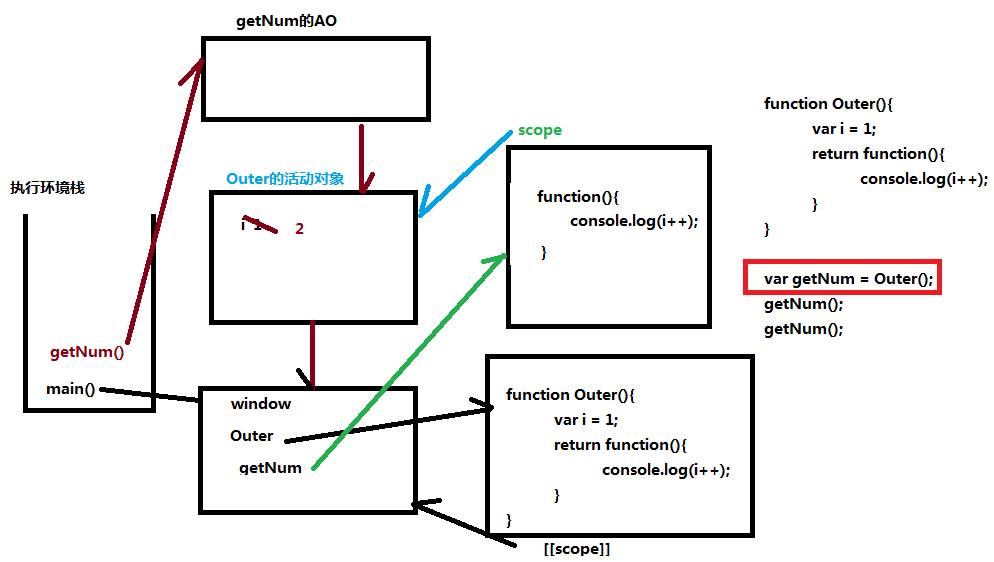
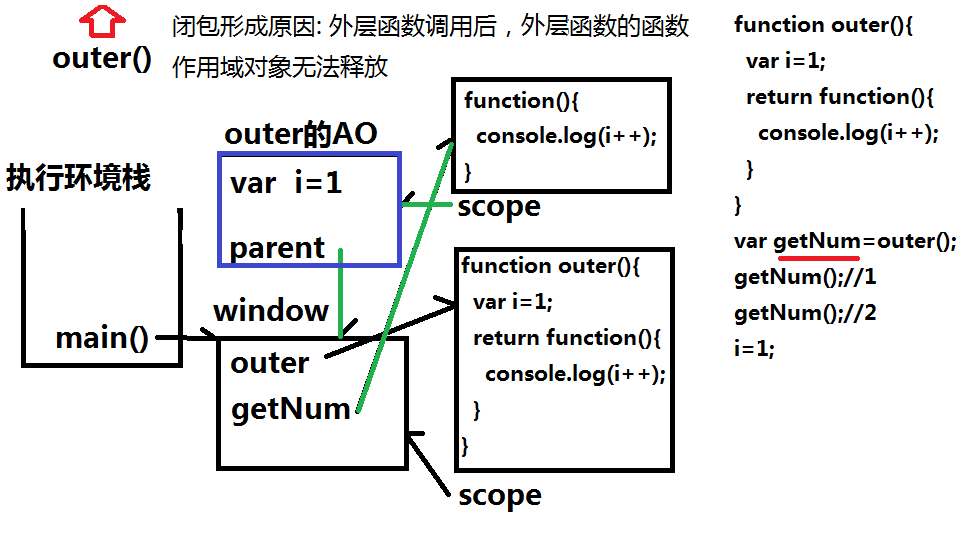
add closure

Changed region(s): [[0.0, 0.0, 0.9917, 1.0], [0.7748, 0.0892, 1.0, 0.3569], [0.7438, 0.0297, 0.9607, 0.0595]]

diff --git a/resource/面向对象.html b/resource/面向对象.html
@@ -1,9 +1,78 @@
 <h2>面向对象--OOP</h2>
 <ul class="menu">
 	<li>
-		<p>面向对象</p>
+		<p>理清JS中的类型关系</p>
 		<div class="desc">
-			<h2>面向对象</h2>
+			<h2>理清JS中的类型关系</h2>
+			<table>
+				<tr>
+					<td rowspan="15">JS六种主要类型</td>
+					<td rowspan="5" >简单基本类型，非对象</td>
+					<td>string</td>
+					<td colspan="2">typeof "str"//string</td>
+				</tr>
+				<tr>
+					<td>number</td>
+					<td colspan="2">typeof 1//number</td>
+					
+				</tr>
+				<tr>
+					<td>boolean</td>
+					<td colspan="2">typeof true//boolean</td>
+				</tr>
+				<tr>
+					<td>null</td>
+					<td colspan="2">typeof null//object<p>注:js中的bug，null本身不是对象</p></td>
+				</tr>
+				<tr>
+					<td>undefined</td>
+					<td colspan="2">typeof undefined//undefined</td>
+				</tr>
+				<tr>
+					<td rowspan="10">复杂基本类型，对象</td>
+					<td rowspan="10">object</td>
+					<td>String</td>
+					<td></td>
+				</tr>
+				<tr>
+					<td>Number</td>
+					<td></td>
+				</tr>
+				<tr>
+					<td>Boolean</td>
+					<td></td>
+				</tr>
+				<tr>
+					<td>Object</td>
+					<td></td>
+				</tr>
+				<tr>
+					<td>Function</td>
+					<td>可调用的对象</td>
+				</tr>
+				<tr>
+					<td>Array</td>
+					<td></td>
+				</tr>
+				<tr>
+					<td>Date</td>
+					<td></td>
+				</tr>
+				<tr>
+					<td>RegExp</td>
+					<td></td>
+				</tr>
+				<tr>
+					<td>Error</td>
+					<td></td>
+				</tr>
+			</table>
+		</div>
+	</li>
+	<li>
+		<p>创建对象</p>
+		<div class="desc">
+			<h2>对象</h2>
 			<h3>面向对象的3大特性</h3>
 			<p>封装：将某事物的属性和功能集中存放在一起，便于管理。</p>
 			<p>继承</p>
@@ -19,8 +88,8 @@
 }
 lilei.sayName();
 </pre>
-			<h4>用new创建</h4>
-			<pre class="code">var lilei = new Object();
+			<h4 class="unimportant">“构造形式”(很少使用)</h4>
+			<pre class="code unimportant">var lilei = new Object();
 obj.name = "Li Lei";
 obj.age = "15";
 obj.sayName = function(){
@@ -37,8 +106,8 @@ for(var key in lilei){
 		console.log(key+":"+lilei[key]);
 	}
 }</pre>
-			<h4>用构造函数</h4>
-			<p>反复创建多个相同结构的对象时，存在大量重复代码，不便于维护。构造函数类似于模板，描述同一类型所有对象同一结构的函数。</p>
+			<h4>构造函数形式</h4>
+			<p>反复创建多个相同结构的对象时，存在大量重复代码，不便于维护。<em>构造函数(constructor)</em>类似于模板，描述同一类型所有对象同一结构的函数。</p>
 			<pre class="code">//定义构造函数
 function Person(name,age){
 	this.name = name;
@@ -54,11 +123,11 @@ lilei.sayName();
 hmm.sayName();
 console.dir(lilei);
 </pre>
-			<h5>构造函数的机制--执行new时，发生了什么？</h5>
-			<p>1) 创建新的空对象</p>
-			<p>2) 设置新对象继承构造函数的原型对象</p>
-			<p>3) 调用构造函数，并将构造函数中的this指向正在创建的新对象。this.name=name;意味着给新对象强行添加属性并赋值为活动对象中的name值。</p>
-			<p>4) 返回新对象的地址</p>
+			<h5 class="unimportant">构造函数的机制--执行new时，发生了什么？</h5>
+			<p class="unimportant">1) 创建新的空对象</p>
+			<p class="unimportant">2) 设置新对象继承构造函数的原型对象</p>
+			<p class="unimportant">3) 调用构造函数，并将构造函数中的this指向正在创建的新对象。this.name=name;意味着给新对象强行添加属性并赋值为活动对象中的name值。</p>
+			<p class="unimportant">4) 返回新对象的地址</p>
 			<div class="img"><img src="images/constructor.png" alt=""></div>
 			<h3>访问对象的属性和方法</h3>
 			<p>访问对象的属性需要在属性前面加上对象名，如<span class="code">lilei.name</span>,如果只是<span class="code">name</span>则表示一个变量，而<strong>变量只能在作用域链中查找</strong>。</p>
@@ -66,13 +135,86 @@ console.dir(lilei);
 		</div>
 	</li>
 	<li>
-		<p>原型和原型链</p>
+		<p>原型和继承</p>
 		<div class="desc">
-			<h2>原型(prototype)</h2>
+			<h2>原型和继承</h2>
+			<h3>原型对象</h3>
+			<p>所有构造函数的实例都有一个属性<em>__proto__</em>指向构造函数的<em>prototype</em>。实例对象所共有的方法应该放在<em>prototype</em>中，这样每次创建实例对象时，不需要重复创建，共用一份即可。</p>
+			<h3>构造函数还是原型对象？</h3>
+			<p>对象的成员应该放在构造函数中还是原型对象中呢？</p>
+			<p><strong>看成员是共性还是个性的。个性的成员放在构造函数中，共性的成员放在原型对象中。</strong></p>
+			<p>例如name、age，因为以后创建的对象name和age不尽相同，所以他们是个性的，因此放在构造函数中；而<span class="code">intr()</span>方法，每个实例都介绍自己name和age，因此是共性的，故而应放在prototype中。</p>
+			
+			<table>
+				<tr>
+					<td>私有属性</td>
+					<td><p>保存在子对象的本地，属子对象独有，只能用子对象修改。</p></td>
+				</tr>
+				<tr>
+					<td>公有属性</td>
+					<td><p>保存在父对象中，所有子对象共有，只能用原型对象修改。</p></td>
+				</tr>
+			</table>
+			<h3>原型的应用</h3>
+			<h4>新API兼容旧的浏览器</h4>
+			<pre class="code">//让IE8兼容ES5新增的indexOf()
+if(typeof Array.prototype.indexOf != "function"){
+	Array.prototype.indexOf = function(target,start){
+		start = start || 0;
+		for(var i = start;i < this.length;i++){
+			if(this[i]===target) return i;
+		}
+		return -1;
+	}
+}
+</pre>
+		<p><strong>开发时：去MDN官网搜索indexOf()，最下面Polyfill就是兼容方案，复制过来使用</strong></p>
+		<pre class="code">if(typeof String.prototype.trim !== "function"){
+	String.prototype.trim = function(){
+		return this.replace(/^\s+|\s+$/g,"");
+	}
+}</pre>
+			<h3>笔试题</h3>
+			<h4>判断一个对象是否为数组有几种方法？</h4>
+			<pre class="code">var obj1={},obj2=[],obj3=new Date(),obj4={};
+obj4.__proto__=obj2;</pre>
+			<p>判断方法：</p>
+			<table>
+				<tr>
+					<td>判断原型对象</td><td><p>Array.prototype.isPrototypeOf(obj)</p></td><td>检查原型链</td>
+				</tr>
+				<tr>
+					<td>判断构造函数</td>
+					<td>
+						<p>obj instanceof Array</p>
+						<p>obj.constructor === Array</p>
+					</td>
+					<td>检查原型链</td>
+				</tr>
+				<tr>
+					<td>判断内部属性class</td>
+					<td><p>Object.prototype.toString.call(obj)==="[object Array]";</p></td>
+					<td></td>
+				</tr>
+			</table>
+			<p>注：class属性在对象创建的时候就已经确定，不随继承关系的改变而改变</p>
+			<p>class属性是内部隐藏的属性，不能随便访问。若要访问，需要使用<span class="code">Object.prototype.toString.call(obj)==="[object Array]";</span></p>
 		</div>
 	</li>
 	<li>
-		<p>继承</p>
-		<div class="desc"></div>
+		<p>继承和多态</p>
+		<div class="desc">
+			<h2>继承</h2>
+			<h3>继承的实现</h3>
+			<h4>通过原型继承</h4>
+			<h3>重写方法(override)</h3>
+			<p>父对象的方法不适合子对象，子对象可以重写同名的函数，该函数会覆盖父对象中的同名函数。</p>
+			<p>如果要用子对象调用父对象中被覆盖的函数，需要使用函数call()</p>
+			<pre class="code">var arr = [1,2,3];
+arr.toString();//"1,2,3"
+Object.prototype.toString.call(arr);//"[object Array]"</pre>
+			<h3>多态</h3>
+			<p>同名函数，在不同的子类对象中表现出不同的作用，就是多态。</p>
+		</div>
 	</li>
 </ul>

diff --git a/resource/JS内置类型.html b/resource/JS内置类型.html
@@ -23,7 +23,30 @@
 		</li>
 		<li>
 			<p>数组类型-Array</p>
-			<div class="desc"></div>
+			<div class="desc">
+				<h2>数组</h2>
+				<h3>深入认识JavaScript中的数组</h3>
+				<h4>数组是对象的子类型，因此数组可以像对象那样使用，比如添加属性。</h4>
+				<pre class="code">var arr = ["1",2,3];
+arr.name = "array";       //看，数组可以添加属性(属性式)
+arr["date"] = "20180233"; //键值式
+arr.length;               //但是，不改变数组的length属性，仍然是3
+arr.name;                 //通过属性方式访问name，值为"array"
+arr["4"] = "4";           //"4"转成4，arr[4]="4";
+arr.length;               //5
+arr[3];                   //undefined</pre>
+				<h4>且看for..in和for..of，发现数组属性与数组元素的区别</h4>
+				<p>JavaScript中，for..in循环是用来遍历对象属性的。注意：js中对象在底层是关联数组，或者叫哈希数组，说白了就是键值对。</p>
+				<pre class="code">//for..in循环是用来遍历对象属性
+for(var key in arr){
+	console.log(key);       //0	 1	2	name
+}
+//for..of循环用来迭代数组中存储的元素，ES6新增
+for(var ele of arr){
+	console.log(ele);       //"1"	2	3
+}
+</pre>
+			</div>
 		</li>
 		<li>
 			<p>函数类型-Function</p>
@@ -275,7 +298,29 @@ function round(number,digit){
 		</li>
 		<li>
 			<p>包装类型</p>
-			<div class="desc"></div>
+			<div class="desc">
+				<h2>包装类型</h2>
+				<h3>ES中的包装类型</h3>
+				<p>ES中简单基本类型<em>string、number、boolean</em>有对应的包装类型<em>String、Number、Boolean。</em></p>
+				<p>基本类型的值不是对象，只能保存值，没有相关的操作API。ES标准内置了包装类型，而包装类型提供了对应基本类型值相关的API，方便操作。当尝试用基本类型的值调用API时，程序会自动创建对应的包装类型对象，来帮助基本类型的值完成指定操作，操作完成后，对象会自动释放。</p>
+				<pre class="code">var num = 3.14159;
+num.toFixed(2);//"3.14"
+/*
+ 	以上代码会自动装箱(auto-boxing)
+	1) typeof num  --> number
+	2) new Number(num).toFixed(2)-->"3.14"
+	3) 自动释放Number对象
+ */</pre>
+				<h3>笔试题</h3>
+				<h4>输出的值为多少？</h4>
+				<pre class="code">var str = "hello";
+str.len = 10;
+console.log(str.len);//undefined</pre>
+				<h4>谈谈你对包装类型的理解。</h4>
+				<p>包装类型是什么？</p>
+				<p>为什么使用包装类型？</p>
+				<p>如何使用包装类型？</p>
+			</div>
 		</li>
 		<li>
 			<p>查找关键词</p>

diff --git a/resource/Function.html b/resource/Function.html
@@ -44,7 +44,7 @@ str.replace(regex,function(keyword){return 替换值});</pre>
 				<tr>
 					<td>执行前</td>
 					<td>
-						<p>1) 首先，创建一个数组（<em>执行环境栈,ECS</em>）,用于存储正在执行的函数。由于浏览器本身也是一个程序，因此ECS中首先进栈的是浏览器的主程序<em>main()</em>。</p>
+						<p>1) 首先，创建一个数组（<em>执行环境栈,execute context stack,ECS</em>）,用于存储正在执行的函数。由于浏览器本身也是一个程序，因此ECS中首先进栈的是浏览器的主程序<em>main()</em>。</p>
 						<p>2) 当执行main()时，会创建全局作用域对象<em>window</em>，它保存所有浏览器内置的对象和方法;</p>
 					</td>
 				</tr>
@@ -65,16 +65,16 @@ str.replace(regex,function(keyword){return 替换值});</pre>
 			</table>
 			<h3>作用域链</h3>
 			<p>多级作用域逐级引用，形成的链式结构被称为<em>作用域链(scope chain)</em>。</p>
+			<div class="img"><img src="images/scope.png" alt=""></div>
 		</div>
 	</li>
 	<li>
 		<p>闭包</p>
 		<div class="desc">
 			<h2>闭包(Closure)</h2>
-			<h3>没有闭包的困惑</h3>
+			<h3>闭包的优势</h3>
 			<p>函数作用域中的变量，仅能在该函数内使用，不会污染全局作用域，但是，函数调用后，就会从内存中释放，下次再调用时，已经不是原先创建的那个函数对象了，所以，函数中定义的变量不能重用。其根本原因是，函数作用域不能常驻内存中。</p>
 			<p>全局作用域，从浏览器打开时，就保存在内存中，直到浏览器关闭。因此，全局作用域中的变量可以重用。但缺点是，污染了全局，易被篡改。</p>
-			<h3>闭包的优势</h3>
 			<p>闭包既能使变量可重用，又不会污染全局变量。</p>
 			<h3>闭包的原理</h3>
 			<p>使用闭包需要3步。(1)首先，用外层函数包裹需要保护的变量以及内层函数。(2)然后，外层函数将内层函数返回到外面。(3)当调用外层函数时，外层函数之外拿到了内层函数的引用，就形成了闭包。</p>
